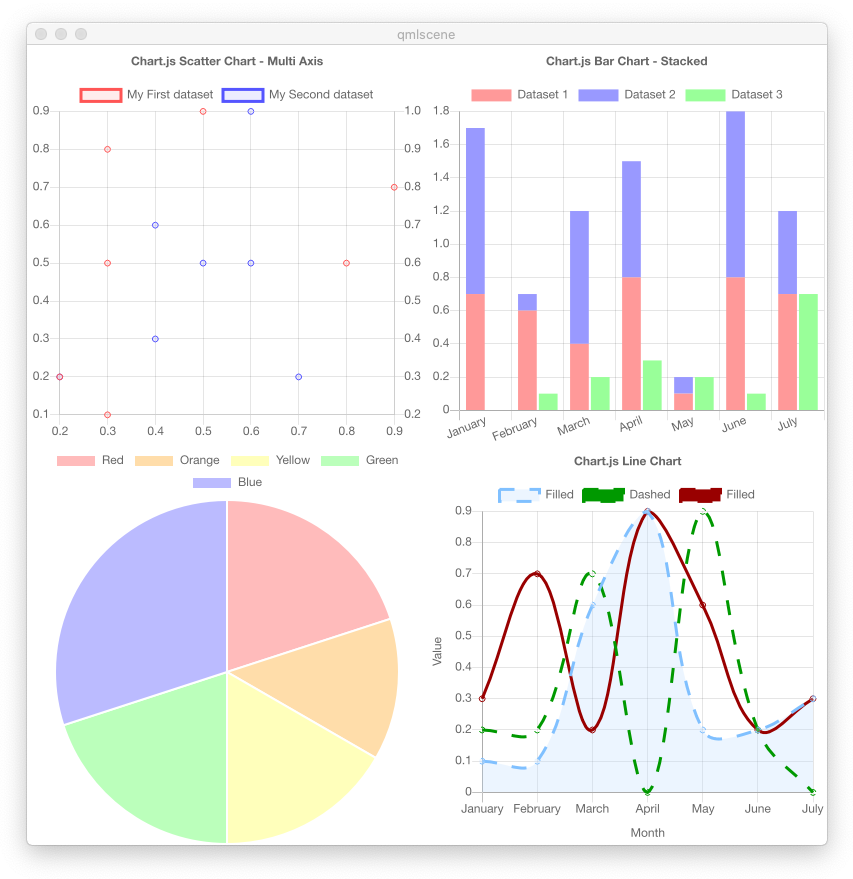
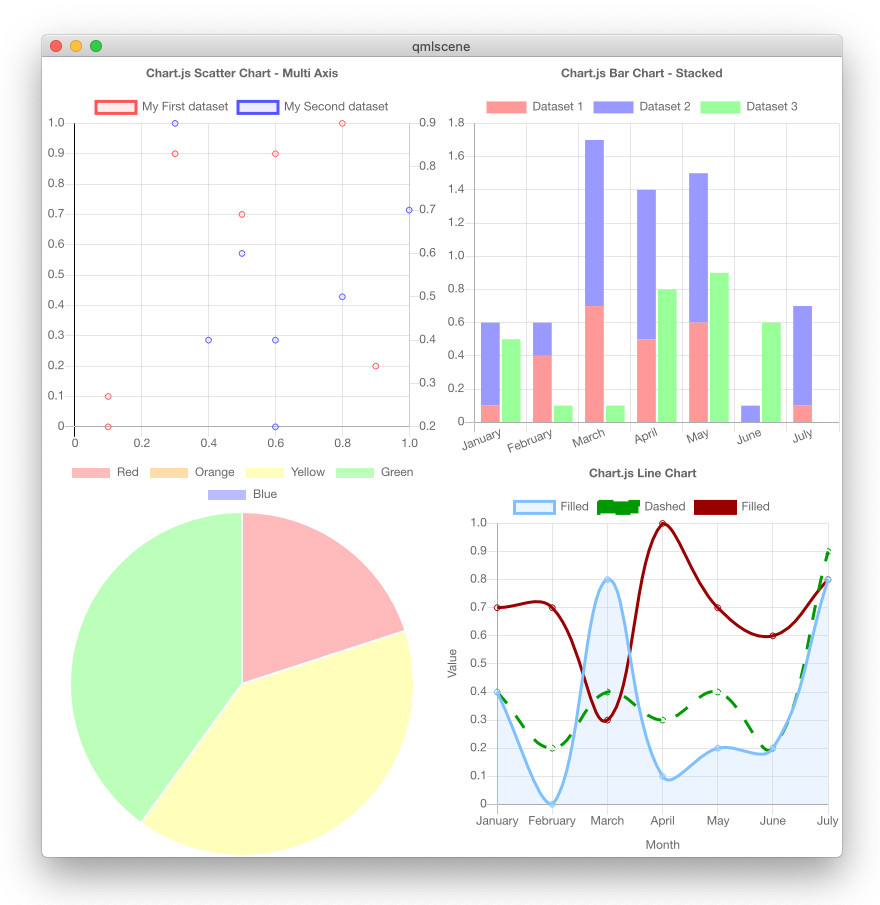
fixed bug that some solid lines would be rendered dashed because there is some QML bug, where setLineDash([]) would not render a line solid
- fix uses setLineDash([99999]) to display a gap only after a really long line (should not be visible at any time; otherwise, just increase this number)
- screenshot and README.md is updated, too

diff --git a/Chart.bundle.js b/Chart.bundle.js
@@ -4405,6 +4405,11 @@ var element_line = core_element.extend({
 			ctx.setLineDash(vm.borderDash || globalOptionLineElements.borderDash);
 		}
 
+		// line dash fix for QML
+		if(ctx.getLineDash && ctx.getLineDash().length === 0) {
+			ctx.setLineDash([99999]);
+		}
+
 		ctx.lineDashOffset = valueOrDefault$1(vm.borderDashOffset, globalOptionLineElements.borderDashOffset);
 		ctx.lineJoin = vm.borderJoinStyle || globalOptionLineElements.borderJoinStyle;
 		ctx.lineWidth = valueOrDefault$1(vm.borderWidth, globalOptionLineElements.borderWidth);
@@ -13638,6 +13643,11 @@ function drawRadiusLine(scale, gridLineOpts, radius, index) {
 		ctx.lineDashOffset = gridLineOpts.borderDashOffset || 0.0;
 	}
 
+	// line dash fix for QML
+	if(ctx.getLineDash && ctx.getLineDash().length === 0) {
+		ctx.setLineDash([99999]);
+	}
+
 	ctx.beginPath();
 	if (circular) {
 		// Draw circular arcs between the points
@@ -13853,6 +13863,11 @@ var scale_radialLinear = scale_linearbase.extend({
 			if (ctx.setLineDash) {
 				ctx.setLineDash(resolve$4([angleLineOpts.borderDash, gridLineOpts.borderDash, []]));
 				ctx.lineDashOffset = resolve$4([angleLineOpts.borderDashOffset, gridLineOpts.borderDashOffset, 0.0]);
+			}
+
+			// line dash fix for QML
+			if(ctx.getLineDash && ctx.getLineDash().length === 0) {
+				ctx.setLineDash([99999]);
 			}
 
 			for (i = me.chart.data.labels.length - 1; i >= 0; i--) {
@@ -20120,6 +20135,10 @@ var Legend = core_element.extend({
 			if (ctx.setLineDash) {
 				// IE 9 and 10 do not support line dash
 				ctx.setLineDash(valueOrDefault$e(legendItem.lineDash, lineDefault.borderDash));
+			}
+
+			if(ctx.getLineDash && ctx.getLineDash().length === 0) {
+				ctx.setLineDash([99999]); // fix for QML because it does not make lines solid once being unsolid once
 			}
 
 			if (labelOpts && labelOpts.usePointStyle) {

diff --git a/README.md b/README.md
@@ -23,9 +23,6 @@ For using it with QML, we have changed Chart.js at many places that we have poin
 
 Also note that we do not guarantee that this adaptor works. We have not tested all different Chart.js charts. We might or might not extend or modify this adaptor. Feel free to provide pull requests if you would like to improve this adaptor.
 
-As of now, there are a few known flaws:
-* dashed line in legend for dashed plots switches around between dashed and solid during resize/animation
-
 We hope that this little package might help you with your projects!
 
 All the best, Michael
